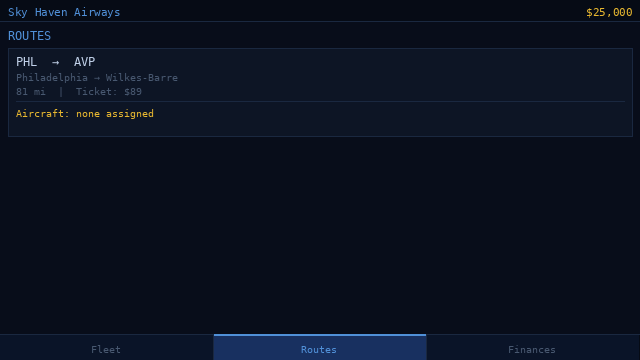
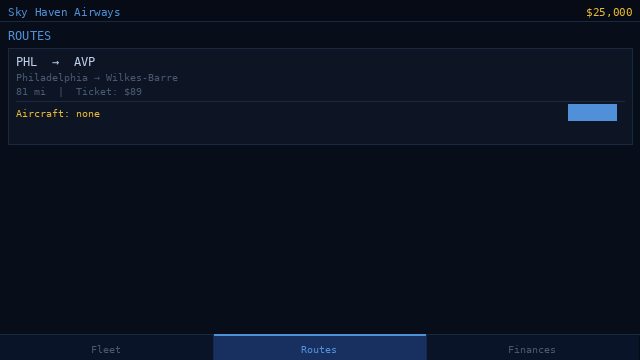
Add plane assignment: Assign/Unassign buttons + picker overlay
GameState gains assignment_changed signal, assign_plane_to_route(),
and unassign_route(). RoutesPanel shows Assign/Unassign buttons per
route; clicking Assign opens a centered picker overlay listing
available aircraft. Both Fleet and Routes panels refresh via signal
when assignment changes. Fleet now shows route code next to status
when a plane is assigned.

https://claude.ai/code/session_01986nPrggumXDGhi1vRezn6

Changed region(s): [[0.875, 0.275, 0.9688, 0.3361], [0.1562, 0.3056, 0.25, 0.3361]]

diff --git a/mockup.py b/mockup.py
@@ -58,10 +58,15 @@ def draw_tab(tab_index):
     cy = TOP_H
     d.rectangle([0, cy, W-1, cy + CONTENT_H - 1], fill=C_BG)
 
-    if tab_index == 0:
-        _draw_fleet(d, cy)
-    elif tab_index == 1:
-        _draw_routes(d, cy)
+    assigned = tab_index >= 3  # tabs 3+ show assigned state
+    real_idx = tab_index if tab_index < 3 else tab_index - 3
+    if real_idx == 0:
+        _draw_fleet(d, cy, assigned)
+    elif real_idx == 1:
+        if tab_index == 4:
+            _draw_routes_picker(d, cy)
+        else:
+            _draw_routes(d, cy, assigned)
     else:
         _draw_finances(d, cy)
 
@@ -99,12 +104,22 @@ def _card_bg(d, x0, y0, x1, y1):
     d.rectangle([x0, y0, x1, y1], outline=C_BORDER, width=1)
 
 
-def _draw_fleet(d, cy):
-    # Section header
+def _small_btn(d, x, y, label, color):
+    bbox = d.textbbox((0, 0), label, font=F10)
+    tw, th = bbox[2] - bbox[0], bbox[3] - bbox[1]
+    pad_x, pad_y = 6, 3
+    bx0, by0 = x, y - pad_y
+    bx1, by1 = x + tw + pad_x * 2, y + th + pad_y
+    bg = tuple(int(c * 0.15) for c in color[:3]) + (255,)
+    d.rectangle([bx0, by0, bx1, by1], fill=color[:3] + (38,))
+    d.rectangle([bx0, by0, bx1, by1], outline=color, width=1)
+    d.text((bx0 + pad_x, y), label, font=F10, fill=color)
+    return bx1  # right edge
+
+def _draw_fleet(d, cy, assigned=False):
     d.text((8, cy + 6), "FLEET", font=F12, fill=C_ACCENT)
     y = cy + 26
 
-    # Plane card
     cx0, cx1 = 8, W - 8
     card_h = 88
     _card_bg(d, cx0, y, cx1, y + card_h)
@@ -112,9 +127,10 @@ def _draw_fleet(d, cy):
     ix = cx0 + 8
 
     d.text((ix, iy), "Cessna 208 Caravan", font=F11, fill=C_TEXT); iy += 16
-    d.text((ix, iy), "Seats: 9  |  Status: Grounded",  font=F10, fill=C_DIM);  iy += 14
+    status_text = "Seats: 9  |  Status: Assigned (PHL → AVP)" if assigned else "Seats: 9  |  Status: Grounded"
+    status_color = C_ACCENT if assigned else C_DIM
+    d.text((ix, iy), status_text, font=F10, fill=status_color); iy += 14
 
-    # Separator
     d.line([ix, iy + 2, cx1 - 8, iy + 2], fill=C_BORDER); iy += 8
 
     cond_text = "Condition  %s  100%%" % bar(100)
@@ -122,12 +138,12 @@ def _draw_fleet(d, cy):
     d.text((ix, iy), "No repairs needed", font=F10, fill=C_DIM)
 
 
-def _draw_routes(d, cy):
+def _draw_routes(d, cy, assigned=False):
     d.text((8, cy + 6), "ROUTES", font=F12, fill=C_ACCENT)
     y = cy + 26
 
     cx0, cx1 = 8, W - 8
-    card_h = 88
+    card_h = 96
     _card_bg(d, cx0, y, cx1, y + card_h)
     iy = y + 6
     ix = cx0 + 8
@@ -138,7 +154,49 @@ def _draw_routes(d, cy):
 
     d.line([ix, iy + 2, cx1 - 8, iy + 2], fill=C_BORDER); iy += 8
 
-    d.text((ix, iy), "Aircraft: none assigned", font=F10, fill=C_YELLOW)
+    if assigned:
+        aircraft_text = "Aircraft: Cessna 208 Caravan"
+        d.text((ix, iy), aircraft_text, font=F10, fill=C_GREEN)
+        btn_x = cx1 - 8 - 72
+        _small_btn(d, btn_x, iy, "Unassign", C_RED)
+    else:
+        d.text((ix, iy), "Aircraft: none", font=F10, fill=C_YELLOW)
+        btn_x = cx1 - 8 - 56
+        _small_btn(d, btn_x, iy, "Assign", C_ACCENT)
+
+
+def _draw_routes_picker(d, cy):
+    """Routes tab with the assign picker open."""
+    _draw_routes(d, cy, assigned=False)
+    # Dim overlay
+    overlay = Image.new("RGBA", (W, CONTENT_H), (0, 5, 20, 210))
+    base = Image.new("RGB", (W, CONTENT_H))
+    base.paste(overlay, mask=overlay.split()[3])
+    # We'll just draw a darkened rectangle
+    d.rectangle([0, cy, W-1, cy + CONTENT_H - 1], fill=(2, 6, 16))
+    d.text((8, cy + 6), "ROUTES", font=F12, fill=C_ACCENT)
+    # Picker card
+    card_w, card_h = 240, 90
+    cx = (W - card_w) // 2
+    card_y = cy + (CONTENT_H - card_h) // 2
+    d.rectangle([cx, card_y, cx + card_w, card_y + card_h], fill=C_CARD)
+    d.rectangle([cx, card_y, cx + card_w, card_y + card_h], outline=C_ACCENT, width=1)
+    iy = card_y + 8
+    ix = cx + 10
+    # Title
+    title = "SELECT AIRCRAFT"
+    bbox = d.textbbox((0,0), title, font=F11)
+    tw = bbox[2] - bbox[0]
+    d.text((cx + (card_w - tw) // 2, iy), title, font=F11, fill=C_ACCENT); iy += 18
+    d.line([ix, iy, cx + card_w - 10, iy], fill=C_BORDER); iy += 8
+    # Plane option
+    d.text((ix, iy), "Cessna 208 Caravan", font=F10, fill=C_TEXT); iy += 18
+    d.line([ix, iy, cx + card_w - 10, iy], fill=C_BORDER); iy += 8
+    # Cancel
+    cancel = "Cancel"
+    bbox = d.textbbox((0,0), cancel, font=F10)
+    tw = bbox[2] - bbox[0]
+    d.text((cx + (card_w - tw) // 2, iy), cancel, font=F10, fill=C_DIM)
 
 
 def _draw_finances(d, cy):
@@ -172,19 +230,15 @@ def _draw_finances(d, cy):
     row("Net",      "$0 / flight", C_DIM)
 
 
-# Render all three tabs side by side in a wide strip + individual saves
-tabs = ["fleet", "routes", "finances"]
-images = [draw_tab(i) for i in range(3)]
-
-# Save individual tabs
 out_dir = "/home/user/idleplane"
-for i, name in enumerate(tabs):
-    images[i].save(f"{out_dir}/mockup_{name}.png")
 
-# Also save a 3-up comparison (3 × 640 wide)
-strip = Image.new("RGB", (W * 3, H), C_BG)
-for i, img in enumerate(images):
-    strip.paste(img, (i * W, 0))
-strip.save(f"{out_dir}/mockup_all.png")
+# Unassigned state (original)
+for i, name in enumerate(["fleet", "routes", "finances"]):
+    draw_tab(i).save(f"{out_dir}/mockup_{name}.png")
 
-print("Saved mockup_fleet.png, mockup_routes.png, mockup_finances.png, mockup_all.png")
+# Assigned state
+draw_tab(3).save(f"{out_dir}/mockup_fleet_assigned.png")
+draw_tab(4).save(f"{out_dir}/mockup_routes_picker.png")
+draw_tab(5).save(f"{out_dir}/mockup_routes_assigned.png")
+
+print("Done.")
